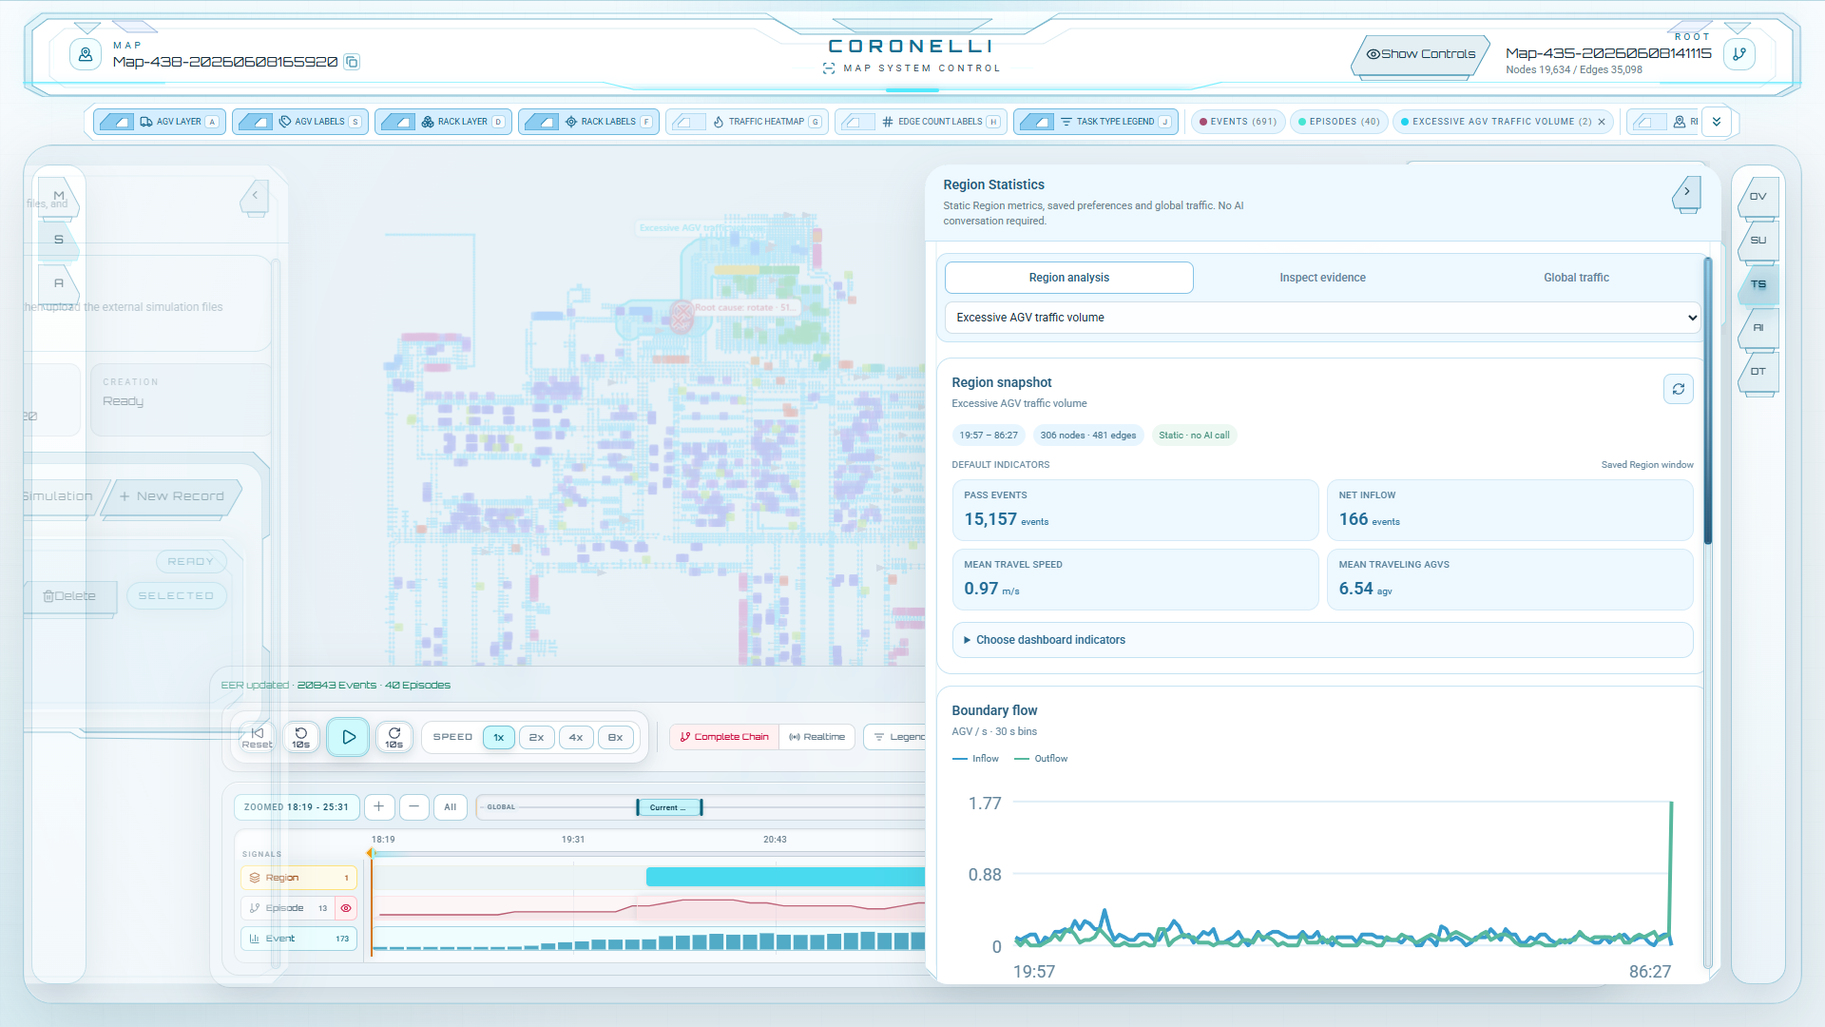
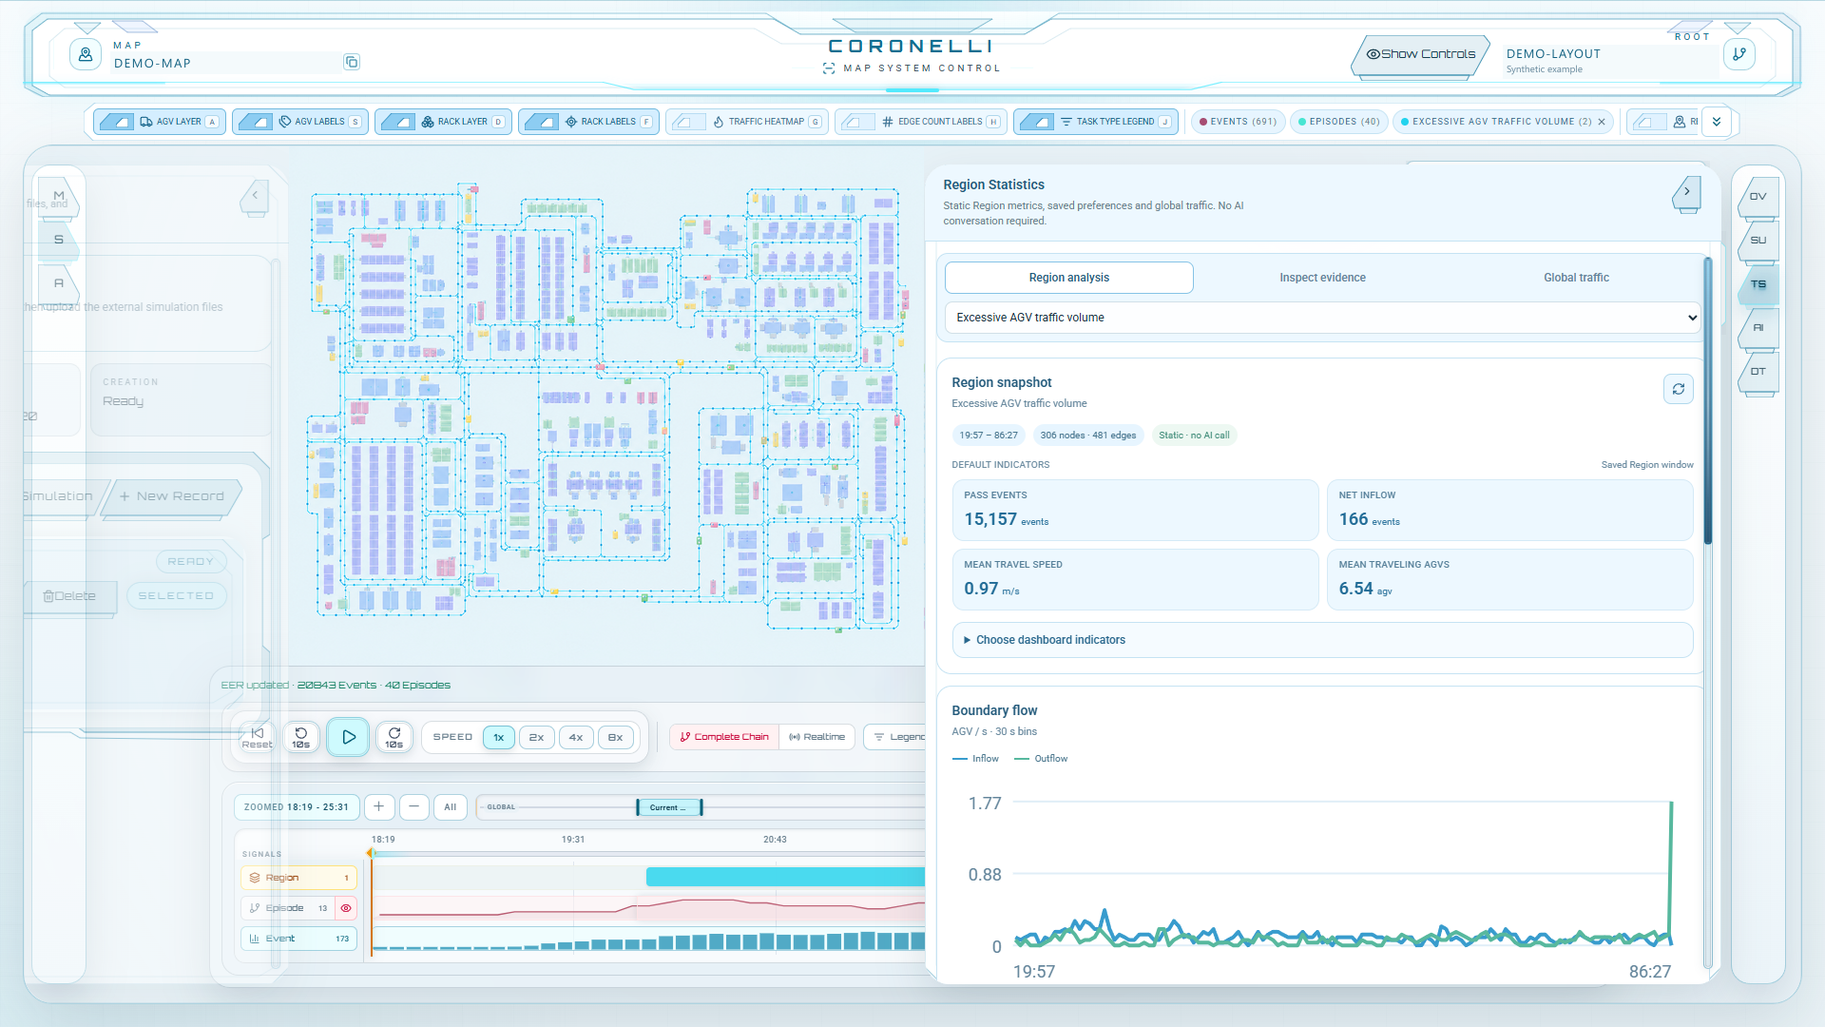
Update homepage to CDN assets and illustrative workshop map

Changed region(s): [[0.1562, 0.1833, 0.5312, 0.6722], [0.8125, 0.0306, 0.9375, 0.0917], [0.0625, 0.0306, 0.1562, 0.0917]]

diff --git a/index.html b/index.html
@@ -9,11 +9,11 @@
 <title>刘昊 Hao Liu · 研究与实践</title>
 <link href="https://cdn.sugrsertraline.top/icon.png" rel="icon" type="image/png"/>
 <link href="https://cdn.sugrsertraline.top/icon.png" rel="apple-touch-icon"/>
-<link href="./assets/observatory.css?v=f164f3eff3" rel="stylesheet"/>
-<link href="./assets/site.css?v=f6e7aa1efb" rel="stylesheet"/>
-<link href="./assets/cottage.css?v=7f6e14c7ea" rel="stylesheet"/>
-<script defer="" src="./assets/site.js?v=0a96ed7f50"></script>
-<script defer="" src="./assets/cottage-motion.js?v=49796ff4e0"></script>
+<link href="https://cdn.sugrsertraline.top/observatory.f164f3eff384.css" rel="stylesheet"/>
+<link href="https://cdn.sugrsertraline.top/site.f6e7aa1efbe2.css" rel="stylesheet"/>
+<link href="https://cdn.sugrsertraline.top/cottage.0e9f1c803eac.css" rel="stylesheet"/>
+<script defer="" src="https://cdn.sugrsertraline.top/site.0a96ed7f50be.js"></script>
+<script defer="" src="https://cdn.sugrsertraline.top/cottage-motion.49796ff4e0ad.js"></script>
 </head>
 <body>
 <a class="skip-link" data-en="Skip to content" href="#main">跳到正文</a>
@@ -37,7 +37,7 @@
 </div>
 </div>
 <div class="hero-art">
-  <img class="study-scene" src="./assets/study-cottage.png" width="1536" height="1024" alt="" aria-hidden="true" draggable="false" decoding="async" fetchpriority="high"/>
+  <img class="study-scene" src="https://cdn.sugrsertraline.top/study-cottage.70de63721682.png" width="1536" height="1024" alt="" aria-hidden="true" draggable="false" decoding="async" fetchpriority="high"/>
 </div>
 <div class="hero-foot"><span class="location"><span aria-hidden="true" class="location-dot"></span><span data-en="Shenyang, China">中国 · 沈阳</span></span><span class="hero-foot-middle" data-en="Research, making, and notes along the way.">研究、创造，以及一路走来的记录。</span><a class="scroll-link" href="#about"><span data-en="SCROLL TO EXPLORE">向下探索</span><span aria-hidden="true">↓</span></a></div>
 </section>
@@ -61,21 +61,21 @@
 <article class="coronelli-feature" id="coronelli" aria-labelledby="coronelli-title">
   <div class="coronelli-heading"><span class="section-index">RESEARCH / 01</span><span class="research-category" data-en="Industrial simulation · Human–AI collaboration">工业仿真 · 人机协同</span></div>
   <div class="coronelli-intro">
-    <div class="coronelli-nameplate"><h3 id="coronelli-title">Coronelli</h3><div class="coronelli-caption"><p class="coronelli-tagline" data-en="Making complex operations legible.">让复杂的运行，变得可理解。</p><img class="chapter-illustration illustration-agv" src="./assets/study-agv.webp" width="512" height="341" loading="lazy" decoding="async" alt="" aria-hidden="true" draggable="false"/></div></div>
+    <div class="coronelli-nameplate"><h3 id="coronelli-title">Coronelli</h3><div class="coronelli-caption"><p class="coronelli-tagline" data-en="Making complex operations legible.">让复杂的运行，变得可理解。</p><img class="chapter-illustration illustration-agv" src="https://cdn.sugrsertraline.top/study-agv.0f46df48f55d.webp" width="512" height="341" loading="lazy" decoding="async" alt="" aria-hidden="true" draggable="false"/></div></div>
     <div class="coronelli-description"><p data-en="A research system for multi-AGV operations in large manufacturing environments. It brings simulation replay, congestion evidence, and interactive analysis into a shared workspace, supporting the investigation of production bottlenecks and optimization decisions.">面向大规模制造场景的多 AGV 运行研究系统。把仿真回放、拥挤证据与交互式分析连接起来，帮助发现生产运行中的瓶颈，为优化决策提供依据。</p><p data-en="The research combines discrete-event and continuous-state simulation, with a focus on congestion detection and prediction, scheduling optimization, and human–AI collaboration grounded in inspectable evidence.">以离散–连续型仿真为基础，围绕拥挤检测与预测、调度优化开展研究；通过可追溯的证据和专家参与，探索方法如何在真实生产流程中落地。</p></div>
   </div>
   <div class="coronelli-gallery">
     <figure class="coronelli-main-shot">
-      <div class="specimen-bar"><span>CORONELLI / WORKBENCH</span><span data-en="System screenshot">系统实景</span></div>
-      <button type="button" class="project-image-button" data-figure="Coronelli" data-src="./assets/coronelli-workbench.webp" data-original="./assets/coronelli-workbench.webp" data-alt-zh="Coronelli 多 AGV 运行回放、区域统计与时间线工作台" data-alt-en="Coronelli multi-AGV replay, region statistics, and timeline workbench" aria-label="放大 Coronelli 运行分析工作台" data-en-aria="Enlarge the Coronelli analysis workbench">
-        <img src="./assets/coronelli-workbench.webp" width="1920" height="1080" loading="lazy" decoding="async" alt="Coronelli 地图、AGV 运行时间线与区域分析面板" data-en-alt="Coronelli map, AGV timeline, and regional analysis panel"/>
+      <div class="specimen-bar"><span>CORONELLI / WORKBENCH</span><span data-en="Interface preview · Demo map">界面展示 · 示意地图</span></div>
+      <button type="button" class="project-image-button" data-figure="Coronelli" data-src="https://cdn.sugrsertraline.top/coronelli-workbench.4018dc17e693.webp" data-original="https://cdn.sugrsertraline.top/coronelli-workbench.4018dc17e693.webp" data-alt-zh="Coronelli 多 AGV 运行回放、区域统计与时间线工作台，地图为参考原图视觉风格绘制的虚构车间布局" data-alt-en="Coronelli multi-AGV replay, region statistics, and timeline workbench with a fictional factory map inspired by the original visual style" aria-label="放大 Coronelli 运行分析工作台" data-en-aria="Enlarge the Coronelli analysis workbench">
+        <img src="https://cdn.sugrsertraline.top/coronelli-workbench.4018dc17e693.webp" width="1920" height="1080" loading="lazy" decoding="async" alt="Coronelli 车间示意地图、AGV 运行时间线与区域分析面板" data-en-alt="Coronelli fictional factory map, AGV timeline, and regional analysis panel"/>
         <span class="image-open"><span data-en="Explore the workbench">查看运行分析工作台</span><span aria-hidden="true">↗</span></span>
       </button>
       <figcaption><span data-en="01 / From the factory map to the running process">01 / 从工厂地图，回到运行过程</span><span data-en="Replay · locate · inspect">回放 · 定位 · 检查</span></figcaption>
     </figure>
     <div class="coronelli-detail-shots">
-      <figure><button type="button" data-figure="Coronelli" data-src="./assets/coronelli-evidence-comparison.webp" data-original="./assets/coronelli-evidence-comparison.webp" data-alt-zh="Coronelli 当前运行与参考运行的拥挤事件时间线对比" data-alt-en="Coronelli congestion-event timelines for current and reference contexts" aria-label="放大 Coronelli 拥挤证据对比" data-en-aria="Enlarge the Coronelli congestion evidence comparison"><img src="./assets/coronelli-evidence-comparison.webp" width="834" height="428" loading="lazy" decoding="async" alt="相同时间尺度下的排队、资源占用与长时等待对比" data-en-alt="Queueing, resource hold, and prolonged waiting compared on the same time scale"/><span class="thumbnail-label"><span data-en="02 / Compare congestion evidence">02 / 对照拥挤证据</span><span aria-hidden="true">↗</span></span></button><figcaption data-en="Compare queueing and waiting evidence from two contexts on the same time scale.">相同时间尺度下，对照两段运行的排队与等待证据。</figcaption></figure>
-      <figure><button type="button" data-figure="Coronelli" data-src="./assets/coronelli-human-ai.webp" data-original="./assets/coronelli-human-ai.webp" data-alt-zh="Coronelli 当前分析规则与候选规则的结果对比" data-alt-en="Coronelli comparison of current and candidate analysis profiles" aria-label="放大 Coronelli 人机协同预览" data-en-aria="Enlarge the Coronelli human–AI preview"><img src="./assets/coronelli-human-ai.webp" width="856" height="440" loading="lazy" decoding="async" alt="Coronelli 规则调整前后的事件组织对比" data-en-alt="Coronelli before-and-after preview of event organization"/><span class="thumbnail-label"><span data-en="03 / Review before adopting">03 / 先预览，再决策</span><span aria-hidden="true">↗</span></span></button><figcaption data-en="Compare candidate changes while experts retain the decision.">对照候选调整的结果，由专家保留最终判断。</figcaption></figure>
+      <figure><button type="button" data-figure="Coronelli" data-src="https://cdn.sugrsertraline.top/coronelli-evidence-comparison.42828d748375.webp" data-original="https://cdn.sugrsertraline.top/coronelli-evidence-comparison.42828d748375.webp" data-alt-zh="Coronelli 当前运行与参考运行的拥挤事件时间线对比" data-alt-en="Coronelli congestion-event timelines for current and reference contexts" aria-label="放大 Coronelli 拥挤证据对比" data-en-aria="Enlarge the Coronelli congestion evidence comparison"><img src="https://cdn.sugrsertraline.top/coronelli-evidence-comparison.42828d748375.webp" width="834" height="428" loading="lazy" decoding="async" alt="相同时间尺度下的排队、资源占用与长时等待对比" data-en-alt="Queueing, resource hold, and prolonged waiting compared on the same time scale"/><span class="thumbnail-label"><span data-en="02 / Compare congestion evidence">02 / 对照拥挤证据</span><span aria-hidden="true">↗</span></span></button><figcaption data-en="Compare queueing and waiting evidence from two contexts on the same time scale.">相同时间尺度下，对照两段运行的排队与等待证据。</figcaption></figure>
+      <figure><button type="button" data-figure="Coronelli" data-src="https://cdn.sugrsertraline.top/coronelli-human-ai.d76eb2b5d874.webp" data-original="https://cdn.sugrsertraline.top/coronelli-human-ai.d76eb2b5d874.webp" data-alt-zh="Coronelli 当前分析规则与候选规则的结果对比" data-alt-en="Coronelli comparison of current and candidate analysis profiles" aria-label="放大 Coronelli 人机协同预览" data-en-aria="Enlarge the Coronelli human–AI preview"><img src="https://cdn.sugrsertraline.top/coronelli-human-ai.d76eb2b5d874.webp" width="856" height="440" loading="lazy" decoding="async" alt="Coronelli 规则调整前后的事件组织对比" data-en-alt="Coronelli before-and-after preview of event organization"/><span class="thumbnail-label"><span data-en="03 / Review before adopting">03 / 先预览，再决策</span><span aria-hidden="true">↗</span></span></button><figcaption data-en="Compare candidate changes while experts retain the decision.">对照候选调整的结果，由专家保留最终判断。</figcaption></figure>
     </div>
   </div>
   <div class="research-process" aria-label="研究路径" data-en-aria="Research approach">
@@ -106,13 +106,13 @@
 <div><h3 class="column-heading" data-en="Education">教育经历</h3><div class="timeline">
 <article class="timeline-item"><span class="timeline-date" data-en="2024 — PRESENT">2024 — 至今</span><h3 data-en="PhD · Software Engineering">博士研究生 · 软件工程</h3><p data-en="School of Software, Northeastern University">东北大学软件学院</p></article>
 <article class="timeline-item"><span class="timeline-date">2020 — 2024</span><h3 data-en="B.Eng. · Software Engineering">工学学士 · 软件工程</h3><p data-en="School of Software, Northeastern University">东北大学软件学院</p></article>
-</div><img class="chapter-illustration illustration-books" src="./assets/study-books.webp" width="512" height="341" loading="lazy" decoding="async" alt="" aria-hidden="true" draggable="false"/></div>
+</div><img class="chapter-illustration illustration-books" src="https://cdn.sugrsertraline.top/study-books.a4c7c384f019.webp" width="512" height="341" loading="lazy" decoding="async" alt="" aria-hidden="true" draggable="false"/></div>
 <div class="practice-column"><h3 class="column-heading" data-en="Beyond research">研究之外</h3><div class="practice-feature"><span aria-hidden="true" class="practice-symbol">↗</span><p data-en="I lead the NEU-ACE innovation team at the School of Software and have served as president of the Intelligent Computing Foundation–Singularity Club, taking part in team projects and student innovation.">负责软件学院 NEU-ACE 创新团队，曾任智能基座-奇点俱乐部主席，参与团队项目与学生创新实践。</p><!-- NEU-ACE link paused; restore when the team page is ready.
 <a class="text-link" href="./ace/"><span data-en="Meet NEU-ACE">了解 NEU-ACE</span><span aria-hidden="true">↗</span></a>
 --></div><div class="volunteering"><h3 data-en="Sharing knowledge, further afield.">把知识带到更远的地方。</h3><p data-en="Through the Mingguang Dream Building project, I took part in teaching and community programs in Yunnan and Gansu, designing and teaching courses.">在“明光筑梦”项目中，我走进云南、甘肃的课堂，参与支教与社会实践，承担课程设计与授课。</p><a class="text-link" href="#mingguang"><span data-en="Read my volunteering notes">翻阅公益手记</span><span aria-hidden="true">↓</span></a></div></div>
 </div>
 <article aria-labelledby="service-title" class="service-story" id="mingguang">
-<div class="service-story-heading"><div><span class="section-index">FIELD JOURNAL / 01</span><h3 data-en="Mingguang Dream Building" id="service-title">明光筑梦</h3><p class="service-role" data-en="Project lead · 2022–2025">项目负责人 · 2022–2025</p></div><div class="service-keepsake"><img class="chapter-illustration illustration-lantern" src="./assets/study-lantern.webp" width="512" height="427" loading="lazy" decoding="async" alt="" aria-hidden="true" draggable="false"/><span class="service-seal" data-en="LEARNING / TOGETHER">以知为光<br/>同行筑梦</span></div></div>
+<div class="service-story-heading"><div><span class="section-index">FIELD JOURNAL / 01</span><h3 data-en="Mingguang Dream Building" id="service-title">明光筑梦</h3><p class="service-role" data-en="Project lead · 2022–2025">项目负责人 · 2022–2025</p></div><div class="service-keepsake"><img class="chapter-illustration illustration-lantern" src="https://cdn.sugrsertraline.top/study-lantern.15ae920646a6.webp" width="512" height="427" loading="lazy" decoding="async" alt="" aria-hidden="true" draggable="false"/><span class="service-seal" data-en="LEARNING / TOGETHER">以知为光<br/>同行筑梦</span></div></div>
 <div class="service-story-grid"><div class="service-story-copy"><p data-en="Mingguang Dream Building is a public-service project initiated by Northeastern University’s School of Software and supported by the university Youth League Committee. It brings educational resources and volunteer support to children, with a focus on learning and growth.">“明光筑梦”是由东北大学软件学院发起、校团委支持的公益项目，围绕儿童的学习与成长，将教育资源、专业知识和志愿陪伴带到需要的地方。</p><p data-en="As project lead, I took part in summer teaching and community programs and was responsible for course design and teaching. These experiences brought my work beyond campus and into classrooms in Changning, Yunnan, and Kangle, Gansu.">担任项目负责人期间，我参与暑期社会实践与支教，负责相关课程设计与授课。工作从校园延伸到云南昌宁、甘肃康乐的课堂，也让我有机会把所学带到实际的教育场景中。</p><div class="service-responsibilities"><span data-en="Project leadership">项目负责</span><span data-en="Course design">课程设计</span><span data-en="Teaching &amp; volunteering">课堂授课与志愿服务</span></div></div>
 <div class="service-places"><div><span class="place-index">01 / YUNNAN</span><h4 data-en="Changning County">云南 · 昌宁县</h4><p data-en="Summer community service and teaching, including course preparation and classroom delivery.">参与暑期社会实践与支教，承担课程准备、设计与课堂授课。</p></div><div><span class="place-index">02 / GANSU</span><h4 data-en="Kangle County · two visits">甘肃 · 康乐县 · 两次前往</h4><p data-en="Two visits to take part in local teaching and community programs.">两次前往当地开展支教与社会实践，持续参与课程与教学工作。</p></div></div></div>
 <aside aria-labelledby="service-invitation-title" class="service-invitation"><span aria-hidden="true">“</span><div><h4 data-en="A little attention can be a beginning." id="service-invitation-title">愿多一份关注，也多一份陪伴。</h4><p data-en="I hope more people will notice the children around them whose parents work far from home. Care can begin nearby: listen to what a child wants to share, help with a difficult question, or join a local volunteering program. Respect their wishes and privacy, and offer support within your means. A small act of kindness, continued over time, can become steady companionship.">我希望更多人能关注身边的留守儿童。关心不一定要从一次远行开始：认真听一个孩子讲讲自己的生活，陪他们解答一道难题，或参与身边的公益与志愿服务。尊重孩子的意愿与隐私，在力所能及的范围内提供帮助，让一时的善意，慢慢成为持续的陪伴。</p></div></aside><div class="service-public-record"><span data-en="PROJECT RECORD">项目记录</span><p data-en="The project received Silver Awards in the 5th and 6th China Youth Volunteer Service Project Competitions.">项目曾获第五届、第六届中国青年志愿服务项目大赛银奖。</p><a class="text-link" href="https://sc.neu.edu.cn/2024/0406/c142a245177/pagem.htm" rel="noopener noreferrer" target="_blank"><span data-en="University report">校官网报道</span><span aria-hidden="true">↗</span></a></div>
@@ -137,7 +137,7 @@
 </section>
 <section aria-labelledby="contact-heading" class="contact-section" id="contact"><div class="page-width">
 <div class="section-heading"><span class="section-index">05 / CONTACT</span><span aria-hidden="true" class="contact-asterisk">✳</span></div>
-<div class="contact-layout"><div class="contact-introduction"><h2 data-en="Let’s exchange ideas." id="contact-heading">从一次交流开始<span>.</span></h2><p data-en="For research discussions, software projects, or shared interests — feel free to get in touch.">关于研究、软件，或一个值得讨论的想法，<br/>欢迎联系我。</p><img class="chapter-illustration illustration-letter" src="./assets/study-letter.webp" width="512" height="427" loading="lazy" decoding="async" alt="" aria-hidden="true" draggable="false"/></div><div class="contact-links">
+<div class="contact-layout"><div class="contact-introduction"><h2 data-en="Let’s exchange ideas." id="contact-heading">从一次交流开始<span>.</span></h2><p data-en="For research discussions, software projects, or shared interests — feel free to get in touch.">关于研究、软件，或一个值得讨论的想法，<br/>欢迎联系我。</p><img class="chapter-illustration illustration-letter" src="https://cdn.sugrsertraline.top/study-letter.7b2a994df88c.webp" width="512" height="427" loading="lazy" decoding="async" alt="" aria-hidden="true" draggable="false"/></div><div class="contact-links">
 <div class="contact-row"><span class="contact-label" data-en="Email">邮箱</span><a href="mailto:liuh21@mails.neu.edu.cn">liuh21@mails.neu.edu.cn</a><button aria-label="复制邮箱地址" class="copy-button" data-copy="liuh21@mails.neu.edu.cn" data-en-aria="Copy email address" type="button"><span data-en="Copy">复制</span></button></div>
 <div class="contact-row"><span class="contact-label">GitHub</span><a href="https://github.com/SugrSertraline" rel="noopener noreferrer" target="_blank">SugrSertraline <span aria-hidden="true">↗</span></a></div>
 <div class="contact-row"><span class="contact-label" data-en="WeChat">微信</span><span class="contact-value">a16260101</span><button aria-label="复制微信号" class="copy-button" data-copy="a16260101" data-en-aria="Copy WeChat ID" type="button"><span data-en="Copy">复制</span></button></div>

diff --git a/assets/cottage.css b/assets/cottage.css
@@ -23,7 +23,7 @@ a,button {transition:color .18s,background-color .18s,border-color .18s,box-shad
 .site-header {background:#e8ecdf;padding-bottom:16px}
 .masthead {min-height:98px;gap:2rem}
 .archive-mark {gap:15px}
-.archive-mark::before {content:"";width:51px;height:57px;flex-shrink:0;background:url("./study-sprig.svg") center/contain no-repeat}
+.archive-mark::before {content:"";width:51px;height:57px;flex-shrink:0;background:url("https://cdn.sugrsertraline.top/study-sprig.c86e943dde88.svg") center/contain no-repeat}
 .masthead-title strong {font:2rem/1.3 var(--serif);letter-spacing:.1em}
 .masthead-title small {font-size:.62rem;letter-spacing:.07em;color:var(--muted);margin-top:3px}
 .masthead-note {font-size:.75rem}
@@ -78,7 +78,7 @@ a,button {transition:color .18s,background-color .18s,border-color .18s,box-shad
 .section-heading::after {height:3px;background:none;border-top:1px dashed #bcc0a4}
 .about-layout {grid-template-columns:230px 1fr;gap:50px;align-items:start}
 .profile-note {position:relative;display:block;padding:20px 14px 24px;border:1px solid #a6ae8c;background:#eaf0da;border-radius:9px 5px 12px 6px;text-align:center;transform:rotate(-1.5deg)}
-.profile-note::before {content:"";display:block;height:95px;width:84px;margin:0 auto 14px;background:url("./study-sprig.svg") center/contain no-repeat}
+.profile-note::before {content:"";display:block;height:95px;width:84px;margin:0 auto 14px;background:url("https://cdn.sugrsertraline.top/study-sprig.c86e943dde88.svg") center/contain no-repeat}
 .profile-note::after {content:"";position:absolute;top:-10px;left:40%;width:45px;height:21px;transform:rotate(6deg);background:#d7c8a0b3}
 .profile-note strong {font-size:.87rem;overflow-wrap:anywhere}
 .profile-note span {margin-top:5px}
